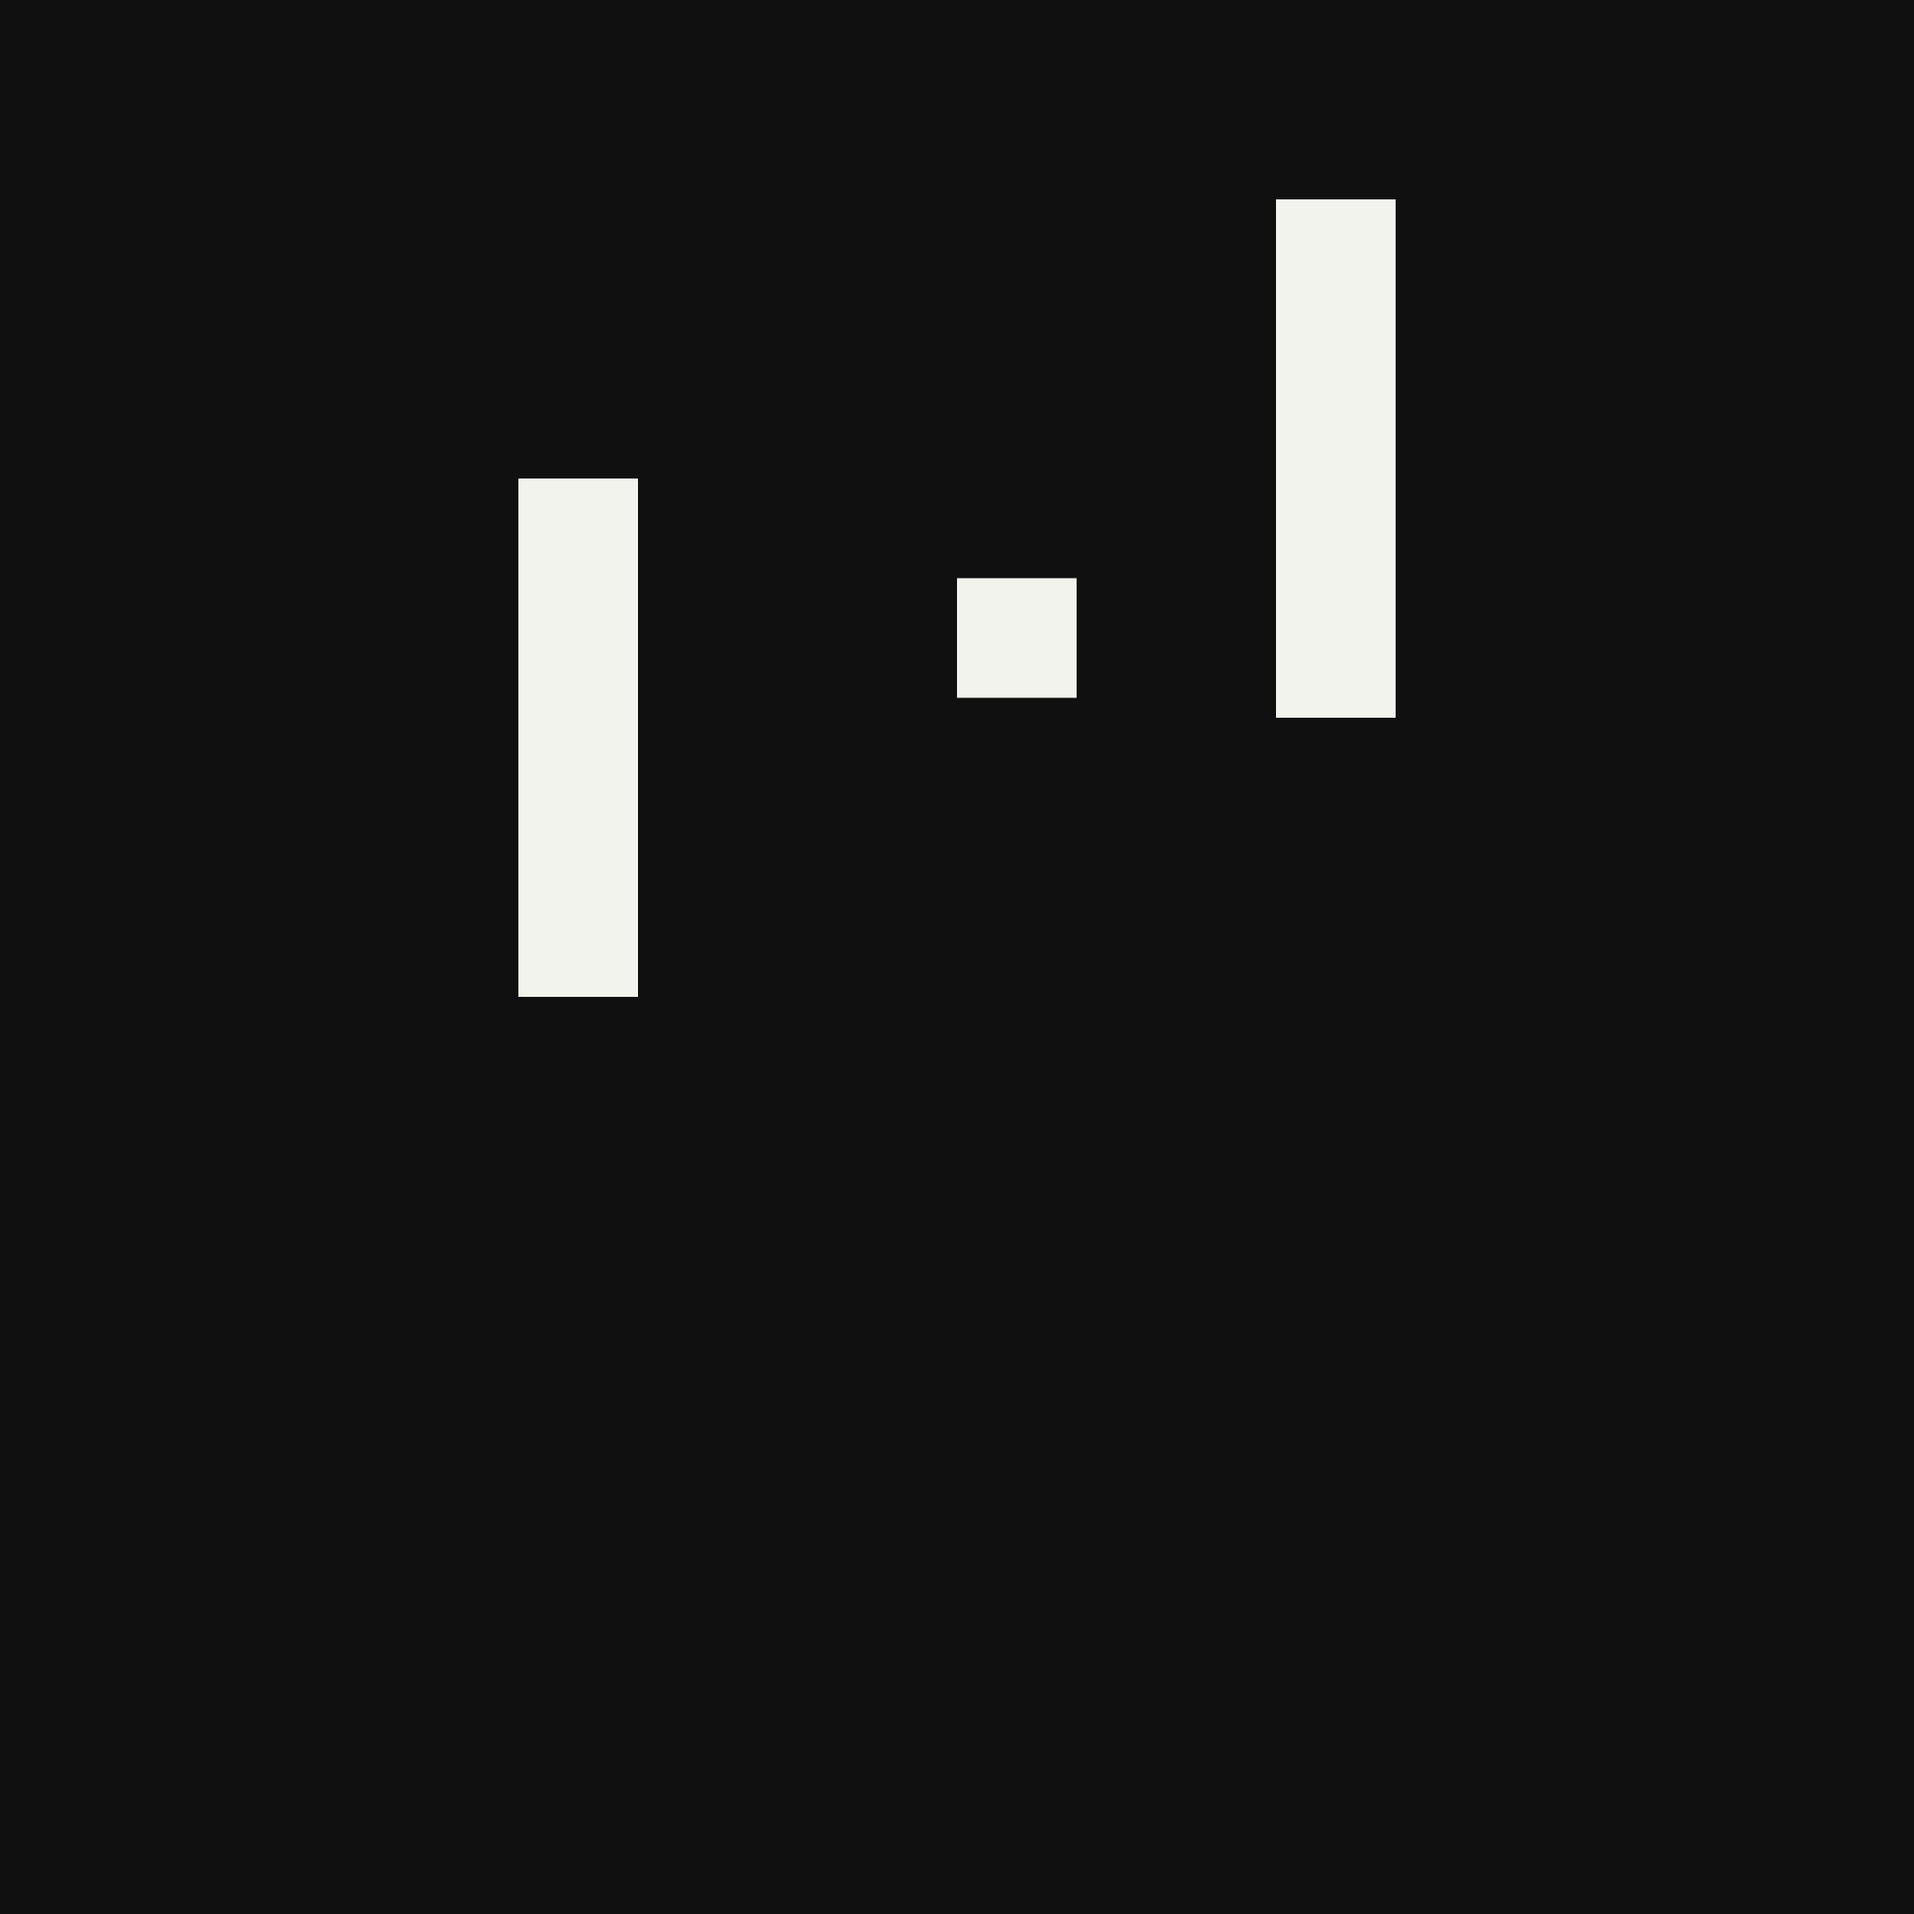
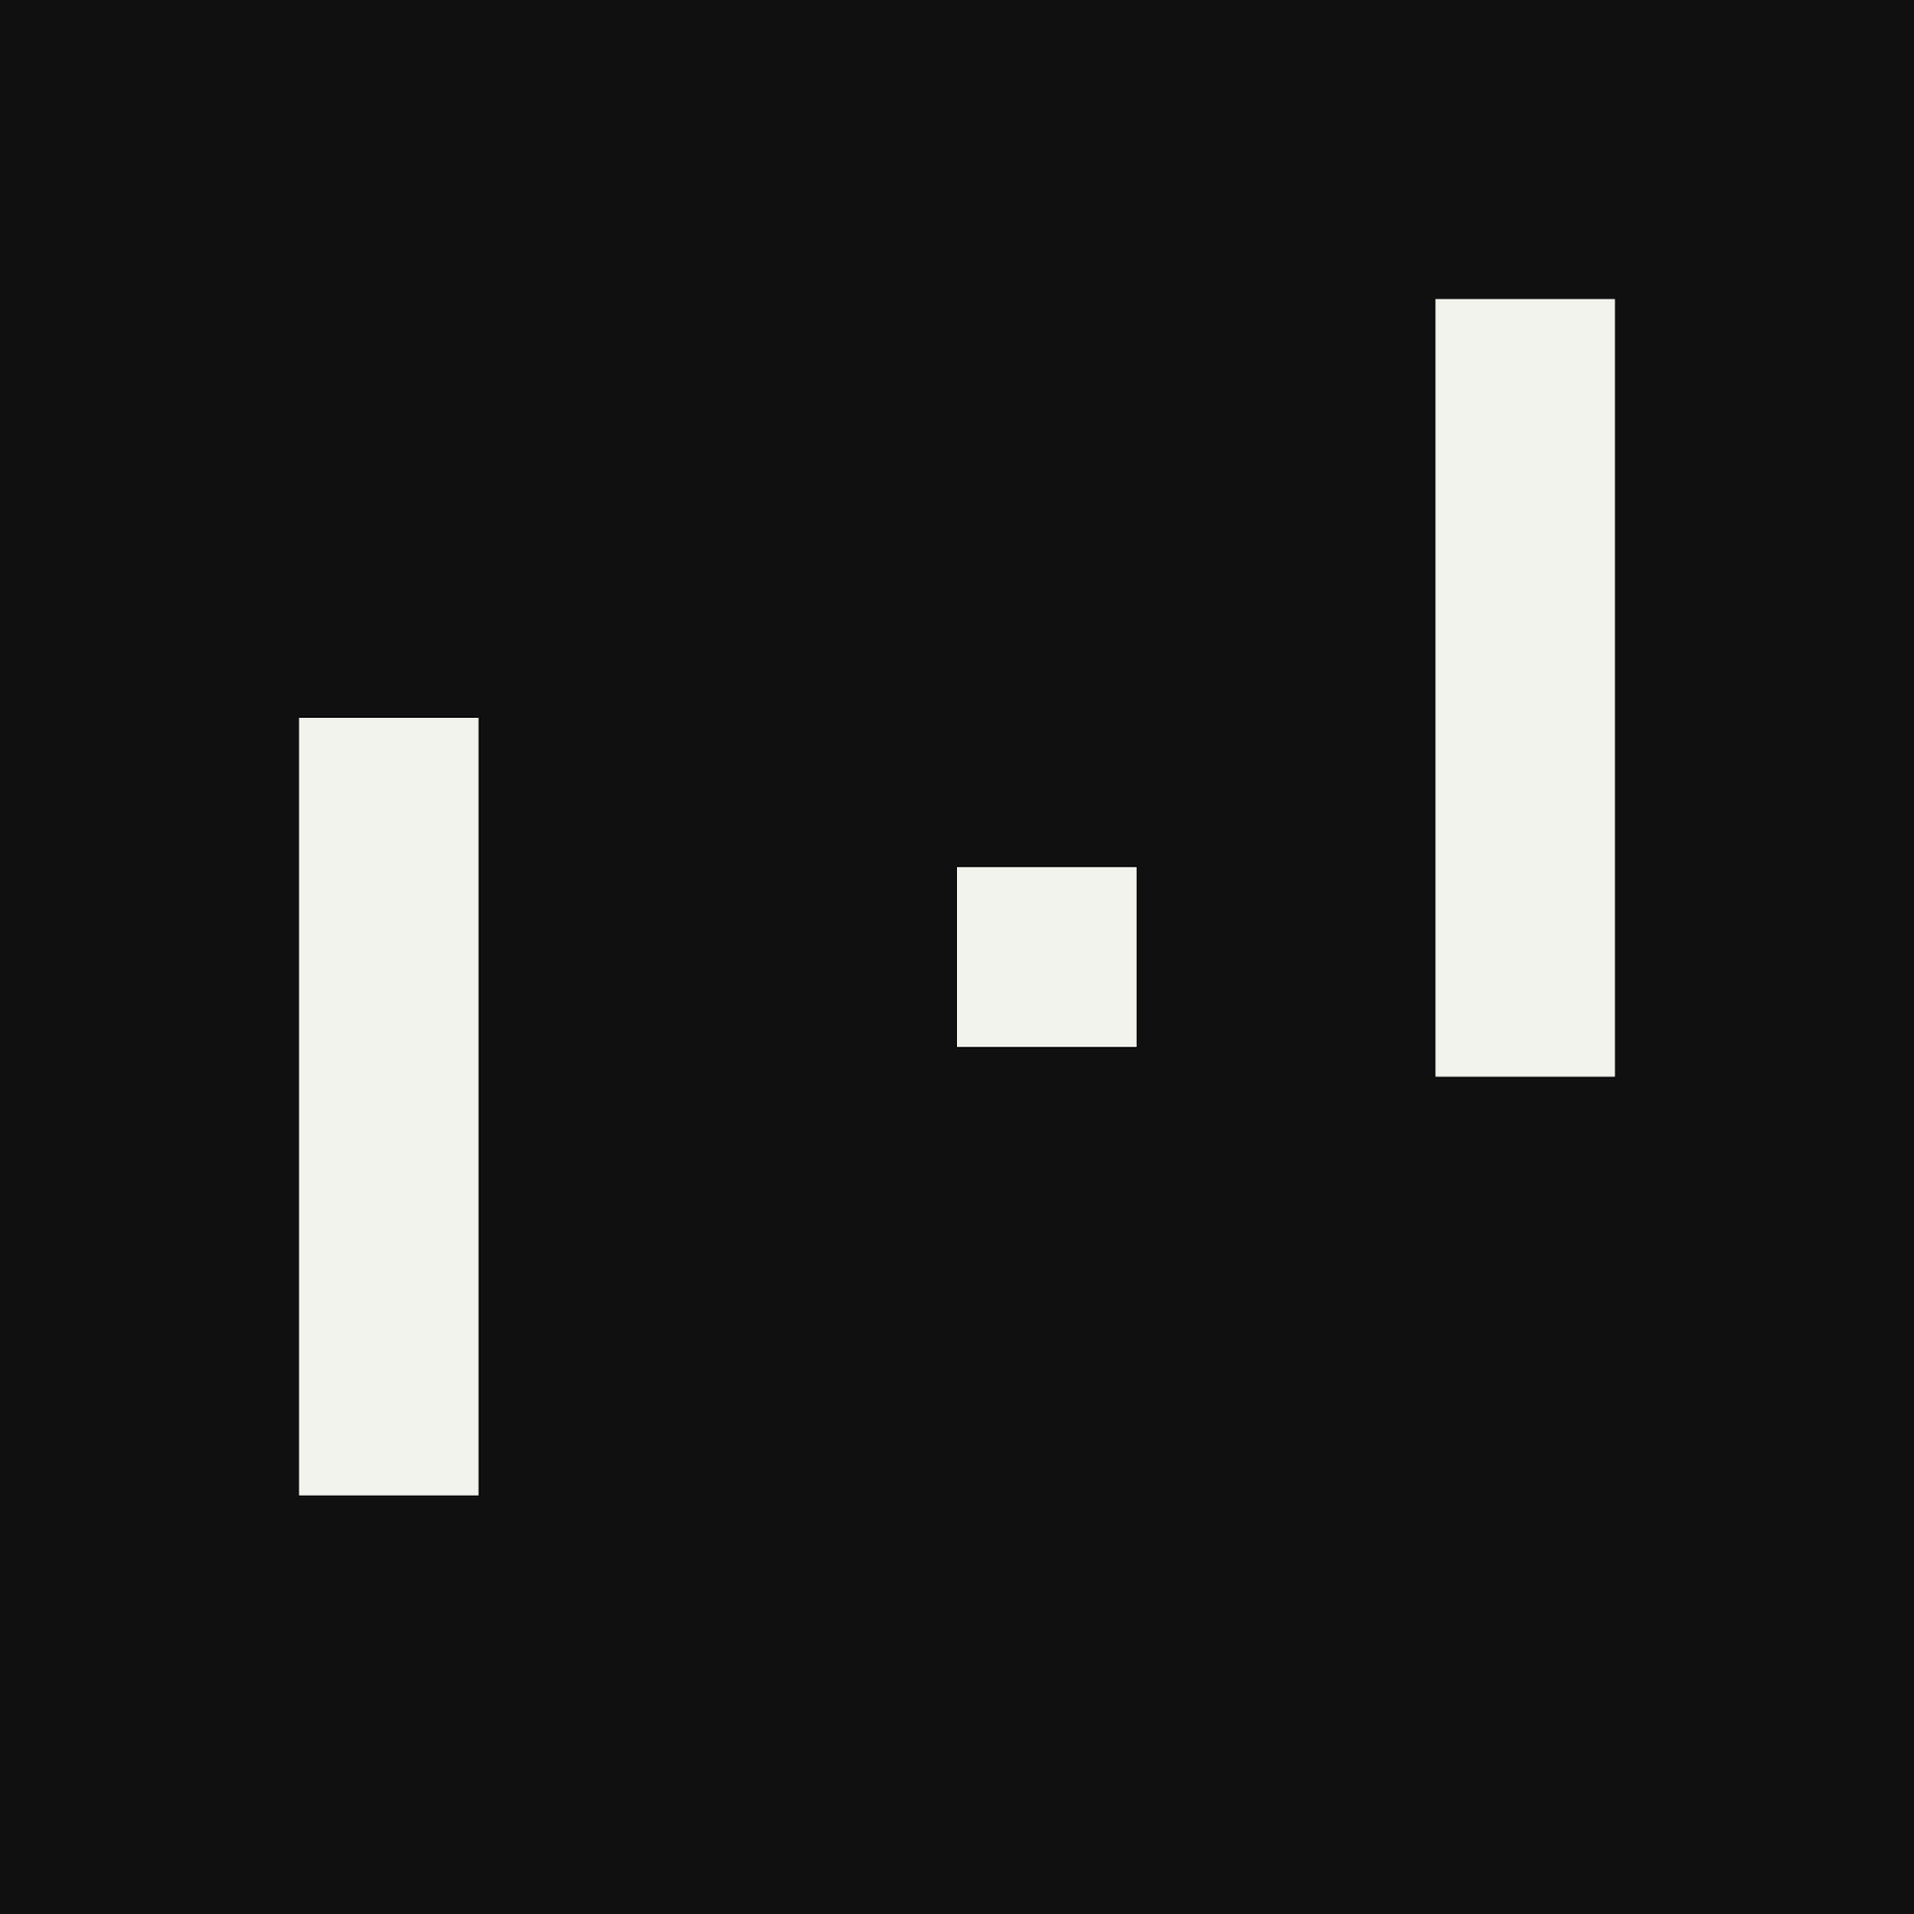
docs: preserve owner-updated Store artwork
Update PNG metadata and distinguish adjusted artwork from the original generator output. Record completion report and remaining Store presentation checks.

diff --git a/docs/store/en-US.md b/docs/store/en-US.md
@@ -66,12 +66,12 @@ Play in a resizable window or switch to full screen.
 
 ### Store logos
 
-2026-10-16：擁有者指定沿用 [favicon.svg](../../sites/favicon.svg)。直接以向量渲染，不放大小型點陣圖、不加文字、不拉伸圖案；深灰底 `#101010`、米白圖案 `#f3f3ed`。圖案位於上方三分之二，底部留給 Store 文字覆蓋。兩種語言可共用；未修改 App 封裝圖示。
+2026-10-16：擁有者指定沿用 [favicon.svg](../../sites/favicon.svg)。初版直接以向量渲染，不加文字，深灰底 `#101010`、米白圖案 `#f3f3ed`，圖案位於上方三分之二。擁有者隨後更新兩張 PNG 並回報已處理完成；目前提交保留其更新版本，Box art 的圖案較初版放大，左側球拍進入底部三分之一，可能被 Store 文字覆蓋。兩種語言可共用；未修改 App 封裝圖示。
 
 | 檔案 | 用途 | 尺寸／格式 | 大小 | 狀態 |
 | --- | --- | --- | --- | --- |
-| [poster-1440x2160.png](poster-1440x2160.png) | Poster art | 1440×2160，2:3 PNG | 14,164 bytes | 本機尺寸、格式、底部留白及視覺檢查通過；未上傳 |
-| [box-2160x2160.png](box-2160x2160.png) | Box art | 2160×2160，1:1 PNG | 18,305 bytes | 本機尺寸、格式、底部留白及視覺檢查通過；未上傳 |
+| [poster-1440x2160.png](poster-1440x2160.png) | Poster art | 1440×2160，2:3 PNG | 2,726 bytes | 擁有者更新版本；本機尺寸與格式檢查通過，已回報處理完成 |
+| [box-2160x2160.png](box-2160x2160.png) | Box art | 2160×2160，1:1 PNG | 9,944 bytes | 擁有者更新版本；本機尺寸與格式檢查通過，已回報處理完成；注意底部覆蓋風險 |
 
 擁有者提供的頁面文字為「9:16 Poster art」，上傳框沒有像素提示；[目前 MSIX 官方文件](https://learn.microsoft.com/windows/apps/publish/publish-your-app/msix/screenshots-and-images)則列出 **2:3，720×1080 或 1440×2160**，Box art 為 **1080×1080 或 2160×2160**。本次依文件的高解析度尺寸製作，不能宣稱已解決介面標籤差異，須以上傳驗證結果確認。兩張皆低於頁面的 50 MB 限制。這是 PC 素材；不宣稱符合 Xbox 必須含產品名稱的要求。
 
@@ -81,4 +81,4 @@ Play in a resizable window or switch to full screen.
 & .\scripts\New-StoreAssets.ps1
 ```
 
-[產生腳本](../../scripts/New-StoreAssets.ps1) 使用隔離的暫存瀏覽器 profile 渲染本機 SVG，驗證精確尺寸／PNG／檔案大小與底部三分之一全為背景色，再複製到此資料夾並清除暫存資料。既有 PNG 會被重建結果覆蓋；SVG 是唯一圖案來源。
+[產生腳本](../../scripts/New-StoreAssets.ps1) 使用隔離的暫存瀏覽器 profile 渲染本機 SVG，驗證精確尺寸／PNG／檔案大小與底部三分之一全為背景色，再複製到此資料夾並清除暫存資料。**此命令只能重建初版留白構圖，不會重現擁有者後續的 PNG 調整／編碼；執行會覆蓋目前成品。** 目前版本以 Git 保存的 PNG 為準，不應直接重跑後當作相同成品上傳。整個 listing 的儲存／Complete 與最終 Store 呈現仍待確認。

diff --git a/todo.md b/todo.md
@@ -13,7 +13,7 @@
   - 2026-10-16：Pricing and availability 已回報 Complete（Free／Private audience／Internal Testers）；IARC 問卷結果已儲存，互動元素僅 In-Game Purchases。
   - en-US Description／5 項 Product features 已回報填入；整頁儲存、Properties Complete、繁中文案、Screenshots／Store logos 與政策／支援欄位待核對。
   - 擁有者選定主選單與對戰兩張 1920×1080 全螢幕 PNG，格式／尺寸檢查通過並保存，不另製作第三張；已回報上傳及預覽正常，整頁儲存待確認，提交前須核對最終 App 外觀。
-  - 依擁有者指定的 favicon SVG 產生 1440×2160 Poster／2160×2160 Box PNG，保存向量轉檔腳本；本機檢查通過，仍待確認 Store 對 Poster 尺寸的接受結果與上傳。
+  - 依擁有者指定的 favicon SVG 產生 1440×2160 Poster／2160×2160 Box PNG，保存向量轉檔腳本；擁有者更新兩張成品並回報處理完成，尺寸／格式通過。腳本僅重建初版，已記錄 Box art 底部覆蓋風險；整頁儲存與最終 Store 呈現待確認。
   - 不送審、不發布；正式商品接線與交易驗收仍未完成。
 
 ## 待辦

diff --git a/docs/store/README.md b/docs/store/README.md
@@ -15,7 +15,7 @@
 - [en-US 草稿](en-US.md)：Description／Product features 已填入，整頁儲存狀態待確認。
 - zh-TW：待新增語言與文案。
 - Screenshots：擁有者選定主選單與對戰兩張 1920×1080 PNG，並於 2026-10-16 回報已上傳及確認預覽；整頁儲存狀態仍待確認。保留現有檔名，見 [英文素材紀錄](en-US.md#selected-screenshots)。
-- Store logos：已由官網 favicon 產生 Poster／Box PNG 並保存[重建方式](en-US.md#store-logos)，待 Partner Center 上傳驗證。
+- Store logos：已保存官網 favicon 轉出的 Poster／Box PNG，擁有者更新成品並回報處理完成；[素材紀錄](en-US.md#store-logos) 註明腳本與手動調整版本差異、Box art 底部覆蓋風險。整頁儲存與最終 Store 呈現待確認。
 - Trailers：尚未決定是否製作。
 
 ## 2026-10-16 主 App 提交進度
